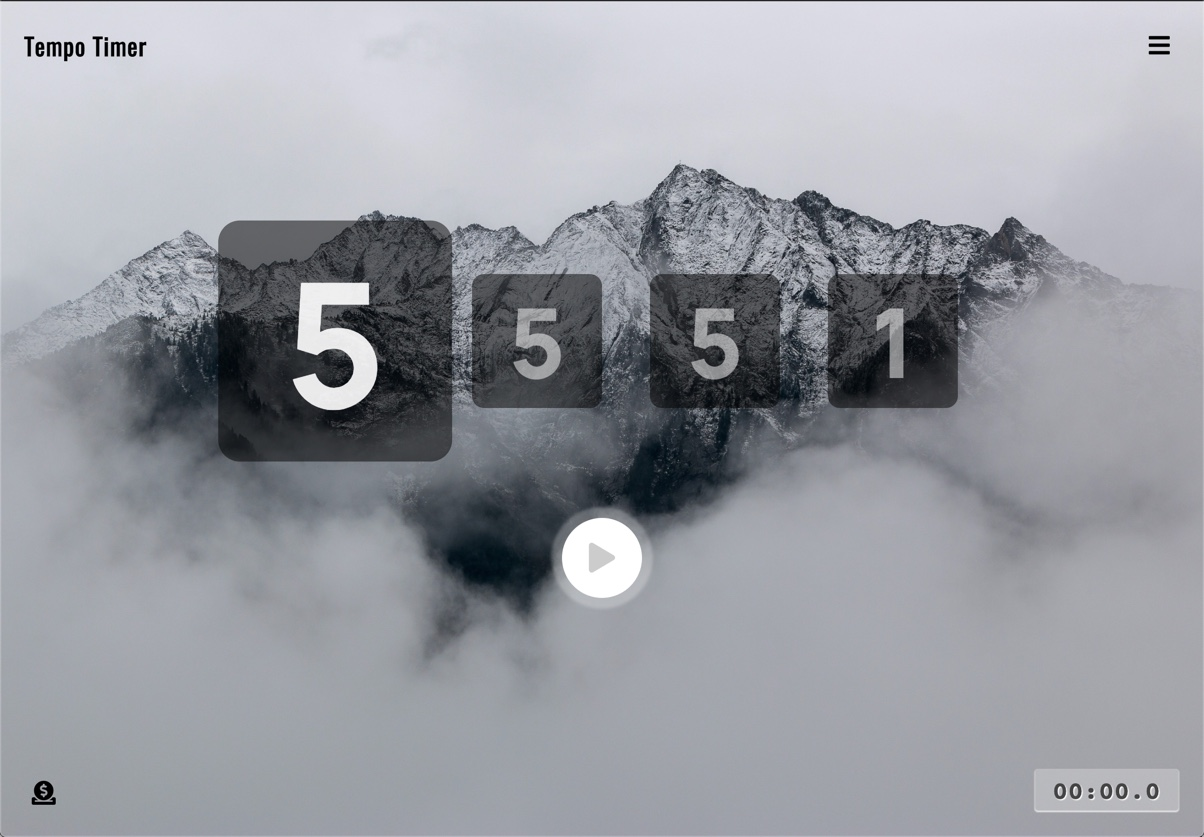
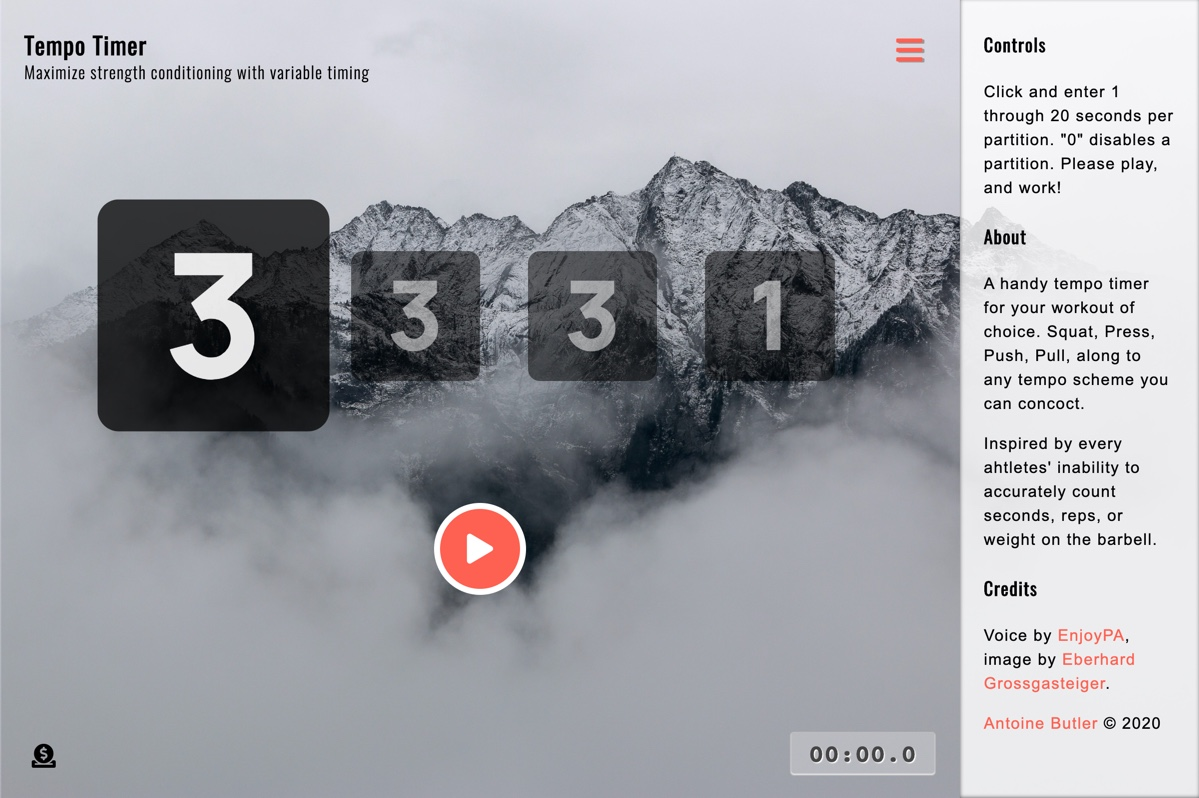
PWA MVP, and adding some "color"

diff --git a/style.css b/style.css
@@ -1,2 +1,2 @@
-@import url("https://fonts.googleapis.com/css2?family=Manrope:wght@800&family=Oswald:wght@300;400&display=swap");@-webkit-keyframes pulse{from,50%,to{opacity:1}33%,66%{opacity:.2}}@keyframes pulse{from,50%,to{opacity:1}33%,66%{opacity:.2}}@-webkit-keyframes flip{from{-webkit-transform:perspective(400px) rotate3d(0, 1, 0, 90deg);transform:perspective(400px) rotate3d(0, 1, 0, 90deg);-webkit-animation-timing-function:ease-in;animation-timing-function:ease-in;opacity:0}60%{-webkit-transform:perspective(400px) rotate3d(0, 1, 0, 10deg);transform:perspective(400px) rotate3d(0, 1, 0, 10deg);opacity:1}to{-webkit-transform:perspective(400px);transform:perspective(400px)}}@keyframes flip{from{-webkit-transform:perspective(400px) rotate3d(0, 1, 0, 90deg);transform:perspective(400px) rotate3d(0, 1, 0, 90deg);-webkit-animation-timing-function:ease-in;animation-timing-function:ease-in;opacity:0}60%{-webkit-transform:perspective(400px) rotate3d(0, 1, 0, 10deg);transform:perspective(400px) rotate3d(0, 1, 0, 10deg);opacity:1}to{-webkit-transform:perspective(400px);transform:perspective(400px)}}*{-webkit-box-sizing:border-box;box-sizing:border-box}body{font-family:Arial, Helvetica, sans-serif;background:#eee url("bg.jpg") no-repeat;background-size:cover;background-attachment:fixed;background-position:center;display:-ms-grid;display:grid;margin:0;grid-auto-flow:column;-ms-grid-columns:auto 0;grid-template-columns:auto 0;height:100%;-ms-grid-row-align:center;align-self:center;letter-spacing:1px;line-height:1.5}@media (min-width: 30em){body.has-info{-ms-grid-columns:auto 240px;grid-template-columns:auto 240px}}h1,h2,h3,h4,h5,h6{font-family:'Oswald', sans-serif;margin:0;line-height:40px}h1{position:fixed;font-size:24px;top:1em;left:1em}h1 small{display:block;line-height:1;font-size:0.7em;font-weight:300;width:80%}@media (min-width: 30em){h1 small{width:100%}}h2,h3,h4,h5,h6{font-size:18px}a{color:#fd6051;text-decoration:none}.fixed-corner{-webkit-transition:all 0.2s ease-in-out;transition:all 0.2s ease-in-out;position:fixed;display:-ms-grid;display:grid;-webkit-box-align:center;-ms-flex-align:center;align-items:center;justify-items:center;font-size:24px;line-height:1;color:#000;width:40px;height:40px}.skip-nav{top:1em;right:1em;-webkit-transform:translateX(0);transform:translateX(0);z-index:3}.skip-nav:hover{-webkit-transform:scale(1.2);transform:scale(1.2)}@media (min-width: 30em){.has-info .skip-nav{-webkit-transform:translateX(-240px);transform:translateX(-240px)}.has-info .skip-nav:hover{-webkit-transform:translateX(-240px) scale(1.2);transform:translateX(-240px) scale(1.2)}}.donate{left:1em;bottom:1em}blockquote{font-size:24px;font-family:georgia;font-style:italic;color:white;max-width:600px;margin:0 auto;text-align:center}.counter{font-size:8vw;display:-ms-grid;display:grid;grid-auto-flow:column;-webkit-box-pack:center;-ms-flex-pack:center;justify-content:center;grid-column-gap:0.5em}.counter input{font-family:'Manrope', sans-serif;font-size:inherit;-webkit-transition:all 0.2s ease-in-out;transition:all 0.2s ease-in-out;color:rgba(255,255,255,0.5);border-radius:0.125em;width:2ch;outline:none;line-height:1;overflow:hidden;text-align:center;-webkit-appearance:textfield;-moz-appearance:textfield;appearance:textfield;border:none;background-color:rgba(220,20,60,0.9);padding:0}.counter input[readonly]{cursor:default}.counter input:not(.enabled){opacity:0.5}.counter input::-webkit-outer-spin-button,.counter input::-webkit-inner-spin-button{-webkit-appearance:none;margin:0}.counter input:hover:not([readonly]):not(.active){color:rgba(255,255,255,0.75)}.counter input:valid,.counter input:-moz-read-only{background-color:rgba(0,0,0,0.5)}.counter input:valid,.counter input:read-only{background-color:rgba(0,0,0,0.5)}.counter .active{-webkit-transform:scale(1.8);transform:scale(1.8);margin:0 .25em}.counter .active:valid,.counter .active:-moz-read-only{background-color:rgba(0,0,0,0.75);color:rgba(255,255,255,0.9)}.counter .active:valid,.counter .active:read-only{background-color:rgba(0,0,0,0.75);color:rgba(255,255,255,0.9)}button{-webkit-transition:all 0.2s ease-in-out;transition:all 0.2s ease-in-out;-webkit-transform:scale(1) translateY(100%);transform:scale(1) translateY(100%);font-size:30px;margin:0 auto;display:block;background:none;-webkit-appearance:none;-moz-appearance:none;appearance:none;padding:0.5em;border:white;outline:none;color:#ccc;background-color:white;-webkit-box-shadow:0 0px 3px 11px rgba(255,255,255,0.25);box-shadow:0 0px 3px 11px rgba(255,255,255,0.25);border-radius:50%;width:80px;height:80px;cursor:pointer}button .fa-stop{display:none}button[data-counting] .fa-stop{display:inline-block}button[data-counting] .fa-play{display:none}button:active{-webkit-transform:scale(0.8) translateY(100%);transform:scale(0.8) translateY(100%)}@media (min-width: 30em){button{margin-top:1em;margin-bottom:1em}}@media (orientation: landscape) and (max-width: 48em){button{position:fixed;left:50%;bottom:80px;margin-top:0;margin-left:-40px}}::-moz-selection{color:inherit;background-color:white}::selection{color:inherit;background-color:white}form{-webkit-transform:opacity 0.2s ease-in-out;transform:opacity 0.2s ease-in-out;display:-ms-grid;display:grid;-ms-grid-row-align:center;align-self:center}.sidebar{-webkit-transform:perspective(400px) rotate3d(0, 1, 0, 90deg);transform:perspective(400px) rotate3d(0, 1, 0, 90deg);-webkit-transform-origin:right;transform-origin:right;-webkit-backface-visibility:visible !important;backface-visibility:visible !important;background-color:white;width:100%;-webkit-box-shadow:inset 0 -2px 4px #555;box-shadow:inset 0 -2px 4px #555;padding:24px;opacity:0;height:100%;max-height:100%;position:fixed;overflow:scroll}.has-info .sidebar{-webkit-animation-name:flip;animation-name:flip;-webkit-animation-duration:.4s;animation-duration:.4s;-webkit-animation-fill-mode:both;animation-fill-mode:both;opacity:1}@media (min-width: 30em){.sidebar{position:relative;background-color:rgba(255,255,255,0.8)}}@media (orientation: landscape) and (max-width: 48em){.sidebar{position:fixed}}.progress{-webkit-transition:-webkit-transform 0.2s ease-in-out;transition:-webkit-transform 0.2s ease-in-out;transition:transform 0.2s ease-in-out;transition:transform 0.2s ease-in-out, -webkit-transform 0.2s ease-in-out;font:600 24px/1 monospace;position:fixed;bottom:1em;right:1em;display:-ms-grid;display:grid;-webkit-box-align:center;-ms-flex-align:center;align-items:center;grid-gap:0.5em}.progress .reps{font-size:0.75em;text-align:right}@media (min-width: 30em){.progress{grid-auto-flow:column;grid-gap:1em}.progress .reps{text-align:inherit}.has-info .progress{-webkit-transform:translateX(-240px);transform:translateX(-240px)}}.reps.count{-webkit-animation-name:pulse;animation-name:pulse;-webkit-animation-duration:1s;animation-duration:1s;-webkit-animation-fill-mode:both;animation-fill-mode:both}.running-clock{border-radius:4px;background-color:rgba(255,255,255,0.25);color:#444;text-shadow:#fff 1px 1px 1px;padding:0.375em 0.75em;letter-spacing:1px;border:1px solid #bbb;-webkit-box-shadow:inset 0 -1px 1px rgba(255,255,255,0.75);box-shadow:inset 0 -1px 1px rgba(255,255,255,0.75)}
+@import url("https://fonts.googleapis.com/css2?family=Manrope:wght@800&family=Oswald:wght@300;400&display=swap");@-webkit-keyframes pulse{from,50%,to{opacity:1}33%,66%{opacity:.2}}@keyframes pulse{from,50%,to{opacity:1}33%,66%{opacity:.2}}@-webkit-keyframes flip{from{-webkit-transform:perspective(400px) rotate3d(0, 1, 0, 90deg);transform:perspective(400px) rotate3d(0, 1, 0, 90deg);-webkit-animation-timing-function:ease-in;animation-timing-function:ease-in;opacity:0}60%{-webkit-transform:perspective(400px) rotate3d(0, 1, 0, 10deg);transform:perspective(400px) rotate3d(0, 1, 0, 10deg);opacity:1}to{-webkit-transform:perspective(400px);transform:perspective(400px)}}@keyframes flip{from{-webkit-transform:perspective(400px) rotate3d(0, 1, 0, 90deg);transform:perspective(400px) rotate3d(0, 1, 0, 90deg);-webkit-animation-timing-function:ease-in;animation-timing-function:ease-in;opacity:0}60%{-webkit-transform:perspective(400px) rotate3d(0, 1, 0, 10deg);transform:perspective(400px) rotate3d(0, 1, 0, 10deg);opacity:1}to{-webkit-transform:perspective(400px);transform:perspective(400px)}}*{-webkit-box-sizing:border-box;box-sizing:border-box}body{font-family:Arial, Helvetica, sans-serif;background:#eee url("bg.jpg") no-repeat;background-size:cover;background-attachment:fixed;background-position:center;display:-ms-grid;display:grid;margin:0;grid-auto-flow:column;-ms-grid-columns:auto 0;grid-template-columns:auto 0;height:100%;-ms-grid-row-align:center;align-self:center;letter-spacing:1px;line-height:1.5}@media (min-width: 30em){body.has-info{-ms-grid-columns:auto 240px;grid-template-columns:auto 240px}}h1,h2,h3,h4,h5,h6{font-family:'Oswald', sans-serif;margin:0;line-height:40px}h1{position:fixed;font-size:24px;top:1em;left:1em}h1 small{display:block;line-height:1;font-size:0.7em;font-weight:300;width:80%}@media (min-width: 30em){h1 small{width:100%}}h2,h3,h4,h5,h6{font-size:18px}a{color:#fd6051;text-decoration:none}.fixed-corner{-webkit-transition:all 0.2s ease-in-out;transition:all 0.2s ease-in-out;position:fixed;display:-ms-grid;display:grid;-webkit-box-align:center;-ms-flex-align:center;align-items:center;justify-items:center;font-size:24px;line-height:1;color:#000;width:40px;height:40px}.skip-nav{top:1em;right:1em;-webkit-transform:translateX(0);transform:translateX(0);z-index:3;color:#fd6051;-webkit-animation-name:pulse;animation-name:pulse;-webkit-animation-duration:2s;animation-duration:2s;-webkit-animation-fill-mode:both;animation-fill-mode:both;font-size:30px;text-shadow:2px 1px #999}.skip-nav:hover{-webkit-transform:scale(1.2);transform:scale(1.2)}@media (min-width: 30em){.has-info .skip-nav{-webkit-transform:translateX(-240px);transform:translateX(-240px)}.has-info .skip-nav:hover{-webkit-transform:translateX(-240px) scale(1.2);transform:translateX(-240px) scale(1.2)}}.donate{left:1em;bottom:1em}blockquote{font-size:24px;font-family:georgia;font-style:italic;color:white;max-width:600px;margin:0 auto;text-align:center}.counter{font-size:8vw;display:-ms-grid;display:grid;grid-auto-flow:column;-webkit-box-pack:center;-ms-flex-pack:center;justify-content:center;grid-column-gap:0.5em}.counter input{font-family:'Manrope', sans-serif;font-size:inherit;-webkit-transition:all 0.2s ease-in-out;transition:all 0.2s ease-in-out;color:rgba(255,255,255,0.5);border-radius:0.125em;width:2ch;height:2ch;outline:none;line-height:1;overflow:hidden;text-align:center;-webkit-appearance:textfield;-moz-appearance:textfield;appearance:textfield;border:none;background-color:rgba(220,20,60,0.9);padding:0;border-bottom:.05em solid transparent}.counter input::-moz-selection{background-color:rgba(0,0,0,0.5)}.counter input::selection{background-color:rgba(0,0,0,0.5)}.counter input[readonly]{cursor:default}.counter input:not(.enabled){opacity:0.5}.counter input::-webkit-outer-spin-button,.counter input::-webkit-inner-spin-button{-webkit-appearance:none;margin:0}.counter input:hover:not([readonly]):not(.active){color:rgba(255,255,255,0.75)}.counter input:valid,.counter input:-moz-read-only{background-color:rgba(0,0,0,0.5)}.counter input:valid,.counter input:read-only{background-color:rgba(0,0,0,0.5)}.counter input:focus:not(:-moz-read-only){border-color:#fd6051}.counter input:focus:not(:read-only){border-color:#fd6051}.counter .active{-webkit-transform:scale(1.8);transform:scale(1.8);margin:0 .25em}.counter .active:valid,.counter .active:-moz-read-only{background-color:rgba(0,0,0,0.75);color:rgba(255,255,255,0.9)}.counter .active:valid,.counter .active:read-only{background-color:rgba(0,0,0,0.75);color:rgba(255,255,255,0.9)}button{-webkit-transition:all 0.2s ease-in-out;transition:all 0.2s ease-in-out;-webkit-transform:scale(1) translateY(100%);transform:scale(1) translateY(100%);font-size:30px;margin:0 auto;display:block;-webkit-appearance:none;-moz-appearance:none;appearance:none;padding:0.5em;outline:none;color:white;background:#fd6051;border:6px solid white;border-radius:50%;width:92px;height:92px;cursor:pointer}button .fa-stop{display:none}button[data-counting] .fa-stop{display:inline-block}button[data-counting] .fa-play{display:none}button:active{-webkit-transform:scale(0.8) translateY(100%);transform:scale(0.8) translateY(100%)}@media (min-width: 30em){button{margin-top:1em;margin-bottom:1em}}@media (orientation: landscape) and (max-width: 48em){button{position:fixed;left:50%;bottom:80px;margin-top:0;margin-left:-46px}}::-moz-selection{color:inherit;background-color:white}::selection{color:inherit;background-color:white}form{-webkit-transform:opacity 0.2s ease-in-out;transform:opacity 0.2s ease-in-out;display:-ms-grid;display:grid;-ms-grid-row-align:center;align-self:center}.sidebar{-webkit-transform:perspective(400px) rotate3d(0, 1, 0, 90deg);transform:perspective(400px) rotate3d(0, 1, 0, 90deg);-webkit-transform-origin:right;transform-origin:right;-webkit-backface-visibility:visible !important;backface-visibility:visible !important;background-color:white;width:100%;-webkit-box-shadow:inset 0 -2px 4px #555;box-shadow:inset 0 -2px 4px #555;padding:24px;opacity:0;height:100%;max-height:100%;position:fixed;overflow:scroll}.has-info .sidebar{-webkit-animation-name:flip;animation-name:flip;-webkit-animation-duration:.4s;animation-duration:.4s;-webkit-animation-fill-mode:both;animation-fill-mode:both;opacity:1}@media (min-width: 30em){.sidebar{position:relative;background-color:rgba(255,255,255,0.8)}}@media (orientation: landscape) and (max-width: 48em){.sidebar{position:fixed}}.progress{-webkit-transition:-webkit-transform 0.2s ease-in-out;transition:-webkit-transform 0.2s ease-in-out;transition:transform 0.2s ease-in-out;transition:transform 0.2s ease-in-out, -webkit-transform 0.2s ease-in-out;font:600 24px/1 monospace;position:fixed;bottom:1em;right:1em;display:-ms-grid;display:grid;-webkit-box-align:center;-ms-flex-align:center;align-items:center;grid-gap:0.5em}.progress .reps{font-size:0.75em;text-align:right}@media (min-width: 30em){.progress{grid-auto-flow:column;grid-gap:1em}.progress .reps{text-align:inherit}.has-info .progress{-webkit-transform:translateX(-240px);transform:translateX(-240px)}}.reps.count{-webkit-animation-name:pulse;animation-name:pulse;-webkit-animation-duration:1s;animation-duration:1s;-webkit-animation-fill-mode:both;animation-fill-mode:both}.running-clock{border-radius:4px;background-color:rgba(255,255,255,0.25);color:#444;text-shadow:#fff 1px 1px 1px;padding:0.375em 0.75em;letter-spacing:1px;border:1px solid #bbb;-webkit-box-shadow:inset 0 -1px 1px rgba(255,255,255,0.75);box-shadow:inset 0 -1px 1px rgba(255,255,255,0.75)}
 /*# sourceMappingURL=style.css.map */

diff --git a/style.scss b/style.scss
@@ -129,6 +129,12 @@ a {
     right: 1em;
     transform: translateX(0);
     z-index: 3;
+    color: $sunset;
+    animation-name: pulse;
+    animation-duration: 2s;
+    animation-fill-mode: both;
+    font-size: 30px;
+    text-shadow: 2px 1px #999;
 
     &:hover {
         transform: scale(1.2);
@@ -173,6 +179,7 @@ blockquote {
         color: rgba(255, 255, 255, 0.5);
         border-radius: 0.125em;
         width: 2ch;
+        height: 2ch;
         outline: none;
         line-height: 1;
         overflow: hidden;
@@ -181,6 +188,11 @@ blockquote {
         border: none;
         background-color: rgba(220, 20, 60, 0.9);
         padding: 0;
+        border-bottom: .05em solid transparent;
+
+        &::selection {
+            background-color: rgba(0,0,0,0.5);
+        }
 
         &[readonly] {
             cursor: default;
@@ -204,6 +216,10 @@ blockquote {
         &:read-only {
             background-color: rgba(0,0,0,0.5);
         }
+
+        &:focus:not(:read-only) {
+            border-color: $sunset;
+        }
     }
  
     .active {
@@ -225,17 +241,15 @@ button {
     font-size: 30px;
     margin: 0 auto;
     display: block;
-    background: none;
     appearance: none;
     padding: 0.5em;
-    border: white;
     outline: none;
-    color: #ccc;
-    background-color: white;
-    box-shadow: 0 0px  3px 11px rgba(255, 255, 255, 0.25);
+    color: white;
+    background: $sunset;
+    border: 6px solid white;
     border-radius: 50%;
-    width: 80px;
-    height: 80px;
+    width: 92px;
+    height: 92px;
     cursor: pointer;
 
     .fa-stop {
@@ -261,7 +275,7 @@ button {
         left: 50%;
         bottom: 80px;
         margin-top: 0;
-        margin-left: -40px;
+        margin-left: -46px;
     }
 }
 

diff --git a/index.html b/index.html
@@ -32,12 +32,18 @@
     <meta property="twitter:description" content="Stay accountable and master the mechanics of your favorite excercise, through deliberate tempo'd reps.">
     <meta property="twitter:image" content="http://tempo.antoinebutler.com/app.jpg">
 
+    <meta name="apple-mobile-web-app-capable" content="yes">
+    <meta name="apple-mobile-web-app-status-bar-style" content="#fd6051">
+    <meta name="theme-color" content="#fd6051">
+
     <link rel="stylesheet" href="https://cdnjs.cloudflare.com/ajax/libs/font-awesome/5.13.0/css/all.min.css" crossorigin="anonymous" />
     <link rel="stylesheet" href="style.css">
     <script src="https://cdnjs.cloudflare.com/ajax/libs/howler/2.1.3/howler.min.js"></script>
 
     <link rel="shortcut icon" href="/favicon.png" type="image/png">
     <link rel="icon" href="/favicon.png" type="image/png">
+    <link rel="manifest" href="/manifest.webmanifest">
+    <link rel="apple-touch-icon" href="/icons-512.png">
 </head>
 <body>
     <a href="#sidebar" class="skip-nav fixed-corner fas fa-bars"></a>
